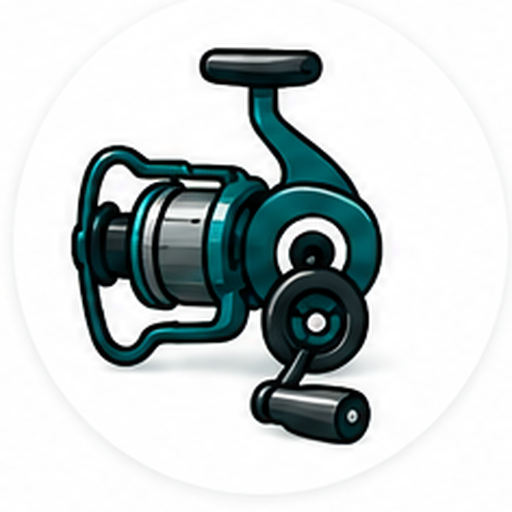
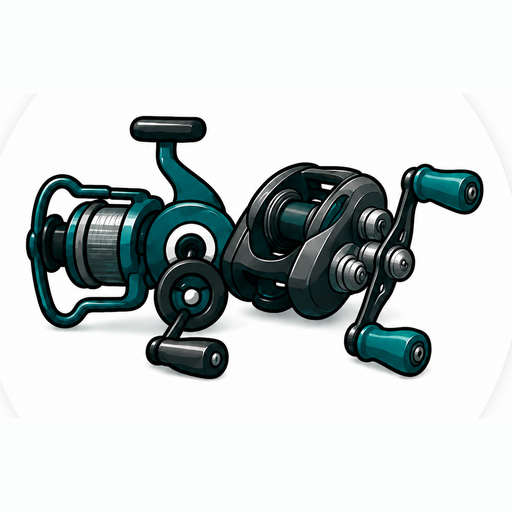
SEO-5c: สไลด์หมวดปัดได้ + หน้าหมวดตัดตัวเลือกหมวดซ้ำ + ค้นเฉพาะหมวด + รูปรอกใหม่

diff --git a/app/market/CatSlider.js b/app/market/CatSlider.js
@@ -1,0 +1,69 @@
+"use client";
+// app/market/CatSlider.js — SEO-5c: แถบหมวดแบบสไลด์แถวเดียว (มือถือปัด / คอมลากเมาส์+ล้อเลื่อน)
+// ใช้ 2 ที่: /market (ใต้ช่องค้นหา, มีหัวข้อ) และ /market/[cat] (บนสุด, ไฮไลต์หมวดที่เปิดอยู่)
+// รูปหมวด: public/cats/cat-01..13.png เรียงตามลำดับ CAT_MAINS
+import Link from "next/link";
+import { useEffect, useRef, useState } from "react";
+import { CAT_MAINS } from "@/lib/catalog";
+
+const C = { brand: "#0E7E8C", tint: "#E3F1F3", ink: "#101314", line: "#EDF0F0" };
+
+export default function CatSlider({ active = "", title = "" }) {
+  const ref = useRef(null);
+  const [small, setSmall] = useState(true); // มือถือวง 58 / คอม 72
+
+  useEffect(() => {
+    const f = () => setSmall(window.innerWidth < 640);
+    f(); window.addEventListener("resize", f);
+    return () => window.removeEventListener("resize", f);
+  }, []);
+
+  // ลากด้วยเมาส์ + ล้อเลื่อนแนวตั้ง = เลื่อนแนวนอน · ลากแล้วปล่อย ไม่นับเป็นคลิกลิงก์
+  useEffect(() => {
+    const el = ref.current; if (!el) return;
+    let down = false, moved = false, sx = 0, sl = 0;
+    const md = e => { down = true; moved = false; sx = e.pageX; sl = el.scrollLeft; };
+    const mm = e => { if (!down) return; if (Math.abs(e.pageX - sx) > 5) moved = true; el.scrollLeft = sl - (e.pageX - sx); };
+    const mu = () => { down = false; };
+    const wh = e => { if (Math.abs(e.deltaY) > Math.abs(e.deltaX)) { el.scrollLeft += e.deltaY; e.preventDefault(); } };
+    const ck = e => { if (moved) { e.preventDefault(); e.stopPropagation(); } };
+    el.addEventListener("mousedown", md); window.addEventListener("mousemove", mm); window.addEventListener("mouseup", mu);
+    el.addEventListener("wheel", wh, { passive: false }); el.addEventListener("click", ck, true);
+    return () => {
+      el.removeEventListener("mousedown", md); window.removeEventListener("mousemove", mm); window.removeEventListener("mouseup", mu);
+      el.removeEventListener("wheel", wh); el.removeEventListener("click", ck, true);
+    };
+  }, []);
+
+  // เปิดหน้าหมวด = เลื่อนให้วงหมวดนั้นโผล่พอดีตา
+  useEffect(() => {
+    const el = ref.current; if (!el || !active) return;
+    const it = el.querySelector("[data-active='1']");
+    if (it) el.scrollLeft = Math.max(0, it.offsetLeft - 24);
+  }, [active]);
+
+  const sz = small ? 58 : 72;
+  return (
+    <div style={{ maxWidth: 1200, margin: "0 auto" }}>
+      {title ? (
+        <div style={{ display: "flex", alignItems: "center", gap: 7, padding: "8px 14px 8px", fontSize: small ? 13.5 : 15, fontWeight: 800, color: C.ink }}>
+          <span style={{ width: 4, height: 16, background: C.brand, borderRadius: 2 }} />{title}
+        </div>
+      ) : null}
+      <div ref={ref} className="cat-slider" style={{ display: "flex", gap: 4, overflowX: "auto", padding: "6px 10px 10px", cursor: "grab", WebkitOverflowScrolling: "touch" }}>
+        {CAT_MAINS.map((cat, i) => {
+          const on = cat === active;
+          return (
+            <Link key={cat} href={`/market/${encodeURIComponent(cat)}`} data-active={on ? "1" : "0"} draggable={false}
+              style={{ flex: "none", width: sz + 18, textDecoration: "none", textAlign: "center", color: on ? C.brand : C.ink }}>
+              <img src={`/cats/cat-${String(i + 1).padStart(2, "0")}.png`} alt={cat} loading="lazy" draggable={false}
+                style={{ width: sz, height: sz, borderRadius: "50%", background: on ? C.tint : "#fff", border: on ? `2px solid ${C.brand}` : `1px solid ${C.line}`, objectFit: "cover", display: "block", margin: "0 auto", boxSizing: "border-box" }} />
+              <div style={{ fontSize: small ? 10.5 : 11.5, fontWeight: on ? 800 : 600, marginTop: 4, lineHeight: 1.25 }}>{cat}</div>
+            </Link>
+          );
+        })}
+      </div>
+      <style>{`.cat-slider::-webkit-scrollbar{display:none}.cat-slider{scrollbar-width:none}`}</style>
+    </div>
+  );
+}

diff --git a/app/market/MarketClient.js b/app/market/MarketClient.js
@@ -88,7 +88,7 @@ function MasonryCard({ p, idx, router, hold }) {
   );
 }
 
-export default function MarketClient({ products, loggedIn, extraBrands = [] }) {
+export default function MarketClient({ products, loggedIn, extraBrands = [], catBar = null, hideCat = false, searchCat = "" }) { // SEO-5c
   const BRANDS = useMemo(() => Array.from(new Set([...ALL_BRANDS, ...extraBrands])).sort((a, b) => a.localeCompare(b)), [extraBrands]); // BRAND-ADM
   const router = useRouter();
   const [q, setQ] = useState("");
@@ -123,7 +123,7 @@ export default function MarketClient({ products, loggedIn, extraBrands = [] }) {
     const t = setTimeout(async () => {
       let count = 0;
       try {
-        const res = await fetch(`/api/search?q=${encodeURIComponent(s)}`);
+        const res = await fetch(`/api/search?q=${encodeURIComponent(s)}${searchCat ? `&cat=${encodeURIComponent(searchCat)}` : ""}`);
         const data = await res.json();
         if (dead) return;
         setSr(Array.isArray(data.items) ? data.items : []);
@@ -272,8 +272,8 @@ export default function MarketClient({ products, loggedIn, extraBrands = [] }) {
 
         {/* ── Sidebar ฟิลเตอร์ (จอกว้างเท่านั้น — prototype WMarketplace บรรทัด 6331–6360) ── */}
         <aside className="mkt-side" style={{ width: 252, flex: "none", background: "#fff", borderRight: `1px solid ${C.line}`, padding: "20px 16px", position: "sticky", top: 74, maxHeight: "calc(100vh - 90px)", overflowY: "auto" }}>
-          <div style={lbl}>หมวดหมู่</div>
-          <div style={{ marginBottom: 4 }}>
+          {!hideCat && <div style={lbl}>หมวดหมู่</div>}
+          <div style={{ marginBottom: 4, display: hideCat ? "none" : "block" }}>
             <div onClick={openCatModal} style={{ display: "flex", alignItems: "center", justifyContent: "space-between", gap: 6, minHeight: 42, border: `1.5px solid ${catPath.length ? C.brand : C.line}`, borderRadius: 12, padding: "8px 12px", cursor: "pointer", background: catPath.length ? C.brandTint : "#fff" }}>
               <span style={{ fontSize: 12.5, color: catPath.length ? C.brand : C.ink, fontWeight: catPath.length ? 700 : 500, overflow: "hidden", textOverflow: "ellipsis", whiteSpace: "nowrap" }}>
                 {catPath.length ? catPath.join(" › ") : "ทั้งหมด"}
@@ -307,7 +307,7 @@ export default function MarketClient({ products, loggedIn, extraBrands = [] }) {
           <div style={{ padding: "0 14px 10px", display: "flex", gap: 8 }}>
             <div style={{ flex: 1, height: 42, border: `1px solid ${C.line}`, borderRadius: 12, display: "flex", alignItems: "center", padding: "0 12px", gap: 8, background: "#fff" }}>
               <Search size={16} color={C.muted} />
-              <input value={q} onChange={e => setQ(e.target.value)} placeholder="ค้นหาสินค้า หรือชื่อร้านค้า..."
+              <input value={q} onChange={e => setQ(e.target.value)} placeholder={searchCat ? `ค้นหาใน${searchCat}...` : "ค้นหาสินค้า หรือชื่อร้านค้า..."}
                 style={{ flex: 1, border: "none", outline: "none", fontSize: 13, fontFamily: "inherit", color: C.ink, background: "transparent" }} />
               {q ? <span onClick={() => setQ("")} style={{ cursor: "pointer", color: C.muted, display: "flex" }}><X size={14} /></span> : null}
             </div>
@@ -336,7 +336,7 @@ export default function MarketClient({ products, loggedIn, extraBrands = [] }) {
           </div>
 
           {/* ชิปหมวดหลัก (มือถือเท่านั้น — desktop ใช้ sidebar) */}
-          <div className="mkt-mobile" style={{ padding: "0 14px", display: "flex", gap: 8, overflowX: "auto", paddingBottom: 2 }}>
+          <div className="mkt-mobile" style={{ padding: "0 14px", display: hideCat ? "none" : "flex", gap: 8, overflowX: "auto", paddingBottom: 2 }}>
             {mains.map(t => <div key={t} onClick={() => selectMain(t)} style={chip(t === "ทั้งหมด" ? catPath.length === 0 : catPath[0] === t, false)}>{t}</div>)}
           </div>
 
@@ -347,6 +347,7 @@ export default function MarketClient({ products, loggedIn, extraBrands = [] }) {
             </div>
           )}
 
+          {catBar}
           <div style={{ padding: "8px 14px 6px" }}>
             <span style={{ fontSize: 11.5, color: C.muted }}>
               {catPath.length > 0 && <span style={{ color: C.brand, fontWeight: 700 }}>{catPath.join(" › ")} · </span>}
@@ -380,8 +381,8 @@ export default function MarketClient({ products, loggedIn, extraBrands = [] }) {
                 </div>
 
                 {/* หมวดหมู่ที่เลือก (เลือก/เปลี่ยนจากชิปด้านนอก) */}
-                <div style={{ fontSize: 12.5, fontWeight: 700, color: C.ink, marginBottom: 8 }}>หมวดหมู่</div>
-                <div onClick={openCatModal} style={{ display: "flex", alignItems: "center", justifyContent: "space-between", minHeight: 42, border: `1px solid ${catPath.length ? C.brand : C.line}`, borderRadius: 10, padding: "8px 12px", marginBottom: 20, background: catPath.length ? C.brandTint : "#fff", cursor: "pointer" }}>
+                {!hideCat && <div style={{ fontSize: 12.5, fontWeight: 700, color: C.ink, marginBottom: 8 }}>หมวดหมู่</div>}
+                <div onClick={openCatModal} style={{ display: hideCat ? "none" : "flex", alignItems: "center", justifyContent: "space-between", minHeight: 42, border: `1px solid ${catPath.length ? C.brand : C.line}`, borderRadius: 10, padding: "8px 12px", marginBottom: 20, background: catPath.length ? C.brandTint : "#fff", cursor: "pointer" }}>
                   <span style={{ fontSize: 12.5, color: catPath.length ? C.brand : C.muted, fontWeight: catPath.length ? 700 : 400 }}>
                     {catPath.length ? catPath.join(" › ") : "ทุกหมวดหมู่ — แตะเพื่อเลือก"}
                   </span>

diff --git a/app/market/page.js b/app/market/page.js
@@ -1,8 +1,7 @@
 // app/market/page.js — ตลาดสินค้า (A4 ก้าว 2: ข้อมูลครบสำหรับสกิน Masonry · W5.5 เพิ่ม avatar_path)
 import { createClient } from "@/lib/supabase/server";
 import MarketClient from "./MarketClient";
-import Link from "next/link"; // SEO-5
-import { CAT_MAINS } from "@/lib/catalog"; // SEO-5
+import CatSlider from "./CatSlider"; // SEO-5c
 import { getExtraBrands } from "@/lib/brands"; // BRAND-ADM
 import { getSeoPage } from "@/lib/seo"; // SEO-4
 
@@ -39,19 +38,8 @@ export default async function MarketPage() {
   const extraBrands = await getExtraBrands(supabase); // BRAND-ADM
   return (
     <>
-      <MarketClient products={rows} loggedIn={!!user} extraBrands={extraBrands} />
+      <MarketClient products={rows} loggedIn={!!user} extraBrands={extraBrands} catBar={<CatSlider title="ช้อปตามหมวดหมู่" />} />
       {/* SEO-5: ลิงก์หมวดจริงท้ายหน้า — ผู้ใช้กดเข้าหมวดได้ + Google เดินตามลิงก์ไปเก็บหน้าหมวด */}
-      <nav aria-label="หมวดหมู่สินค้า" style={{ maxWidth: 1200, margin: "0 auto", padding: "6px 16px 28px" }}>
-        <div style={{ fontSize: 15, fontWeight: 800, color: "#101314", marginBottom: 14, display: "flex", alignItems: "center", gap: 8 }}><span style={{ width: 4, height: 18, background: "#0E7E8C", borderRadius: 2 }} />หมวดหมู่</div>{/* SEO-5b */}
-        <div style={{ display: "grid", gridTemplateColumns: "repeat(auto-fill, minmax(96px, 1fr))", gap: "16px 8px" }}>
-          {CAT_MAINS.map((cat) => (
-            <Link key={cat} href={`/market/${encodeURIComponent(cat)}`} style={{ textDecoration: "none", textAlign: "center", color: "#101314" }}>
-              <img src={`/cats/cat-${String(CAT_MAINS.indexOf(cat) + 1).padStart(2, "0")}.png`} alt={cat} loading="lazy"
-              style={{ width: 76, height: 76, borderRadius: "50%", background: "#fff", border: "1px solid #EDF0F0", objectFit: "cover", display: "block", margin: "0 auto" }} />
-            <div style={{ fontSize: 11.5, fontWeight: 600, marginTop: 6, lineHeight: 1.3 }}>{cat}</div></Link>
-          ))}
-        </div>
-      </nav>
     </>
   );
 }

diff --git a/app/api/search/route.js b/app/api/search/route.js
@@ -15,6 +15,7 @@ const cleanQ = (raw) => String(raw || "").trim().slice(0, 80);
 
 export async function GET(req) {
   const q = cleanQ(new URL(req.url).searchParams.get("q"));
+  const cat = cleanQ(new URL(req.url).searchParams.get("cat")); // SEO-5c: ค้นเฉพาะหมวด
   if (q.length < 2) return NextResponse.json({ items: [], count: 0 });
 
   const admin = createAdminClient();
@@ -32,7 +33,8 @@ export async function GET(req) {
   const { data: products } = await admin
     .from("products")
     .select("id, name, price, cond, cond_label, brand, location, images, image_ratio, status, cat_main, cat_sub, shipping, views, created_at, seller_id, preorder_days")
-    .in("id", ids);
+    .in("id", ids)
+    .match(cat ? { cat_main: cat } : {});
 
   // 3) ข้อมูลผู้ขายสำหรับแถวล่างการ์ด
   const sellerIds = [...new Set((products || []).map(p => p.seller_id).filter(Boolean))];

diff --git a/app/market/[cat]/page.js b/app/market/[cat]/page.js
@@ -6,6 +6,7 @@ import { CAT_MAINS } from "@/lib/catalog";
 import { getSeoPage } from "@/lib/seo";
 import { getExtraBrands } from "@/lib/brands";
 import MarketClient from "../MarketClient";
+import CatSlider from "../CatSlider"; // SEO-5c
 
 export const dynamic = "force-dynamic";
 
@@ -51,6 +52,7 @@ export default async function CategoryPage({ params }) {
 
   return (
     <>
+      <CatSlider active={cat} />
       {/* h1 + ย่อหน้าแนะนำ (จากแท็บ SEO) = เนื้อหาที่ทำให้หน้าหมวดติดอันดับ — intro มาจากแอดมินเท่านั้น (เขียนได้เฉพาะ service key) จึงปลอดภัยพอสำหรับ dangerouslySetInnerHTML */}
       <section style={{ maxWidth: 1200, margin: "0 auto", padding: "18px 16px 0" }}>
         <h1 style={{ fontSize: 20, fontWeight: 800, color: "#101314", margin: 0 }}>{cat} มือสอง และมือหนึ่ง</h1>
@@ -59,7 +61,7 @@ export default async function CategoryPage({ params }) {
             dangerouslySetInnerHTML={{ __html: seo.intro_html }} />
         ) : null}
       </section>
-      <MarketClient products={rows} loggedIn={!!user} extraBrands={extraBrands} />
+      <MarketClient products={rows} loggedIn={!!user} extraBrands={extraBrands} hideCat searchCat={cat} />
     </>
   );
 }